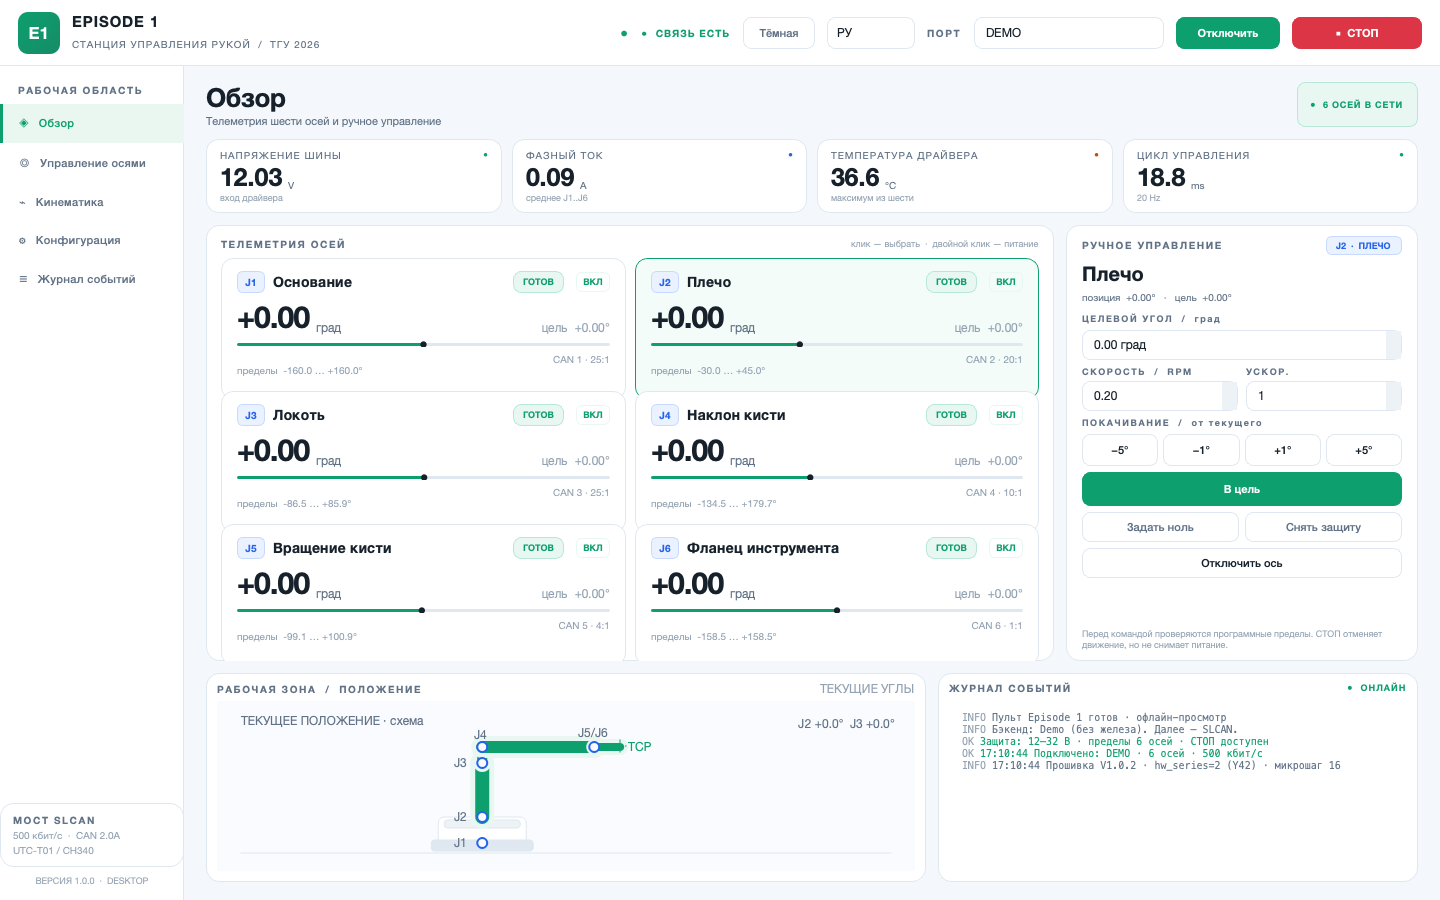
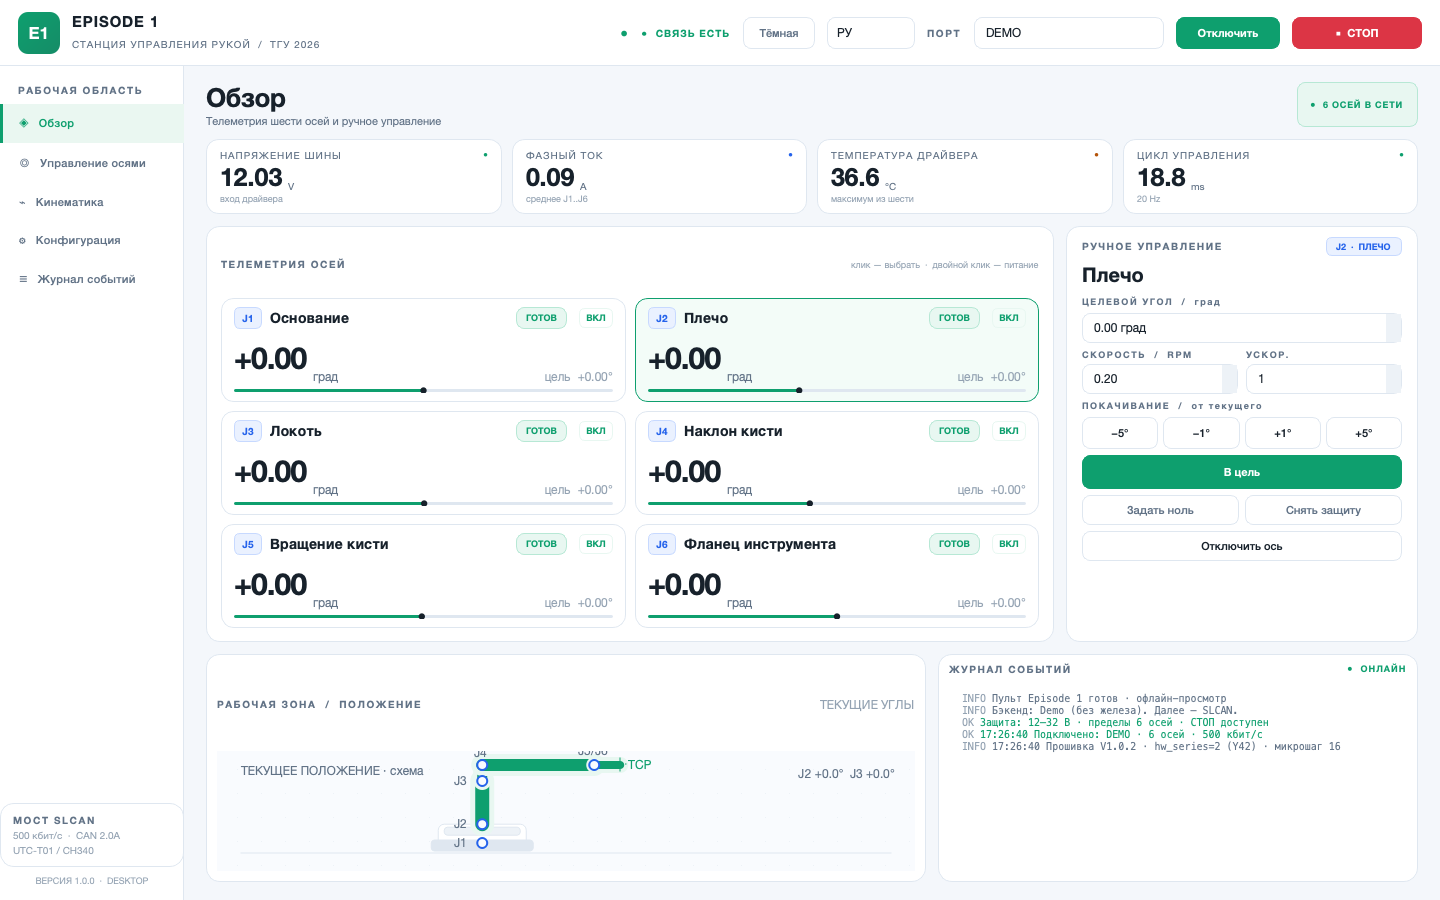
Responsive compact layout and offline placeholders

diff --git a/app/episode1_app/window.py b/app/episode1_app/window.py
@@ -21,6 +21,7 @@ from PySide6.QtWidgets import (
     QMainWindow,
     QMessageBox,
     QPushButton,
+    QScrollArea,
     QSpinBox,
     QVBoxLayout,
     QWidget,
@@ -109,6 +110,7 @@ class MainWindow(QMainWindow):
             old.deleteLater()
         self.cards.clear()
         self._nav_buttons.clear()
+        self._compact = False
         self._nav_keys.clear()
 
         self.setWindowTitle(tr("app.title"))
@@ -126,6 +128,8 @@ class MainWindow(QMainWindow):
         body.addWidget(self._build_sidebar())
 
         content = QWidget()
+        content.setObjectName("Content")
+        content.setMinimumSize(980, 720)
         content_lay = QVBoxLayout(content)
         content_lay.setContentsMargins(22, 16, 22, 18)
         content_lay.setSpacing(12)
@@ -133,7 +137,13 @@ class MainWindow(QMainWindow):
         content_lay.addLayout(self._build_metrics())
         content_lay.addLayout(self._build_main_row(), 1)
         content_lay.addLayout(self._build_bottom_row())
-        body.addWidget(content, 1)
+        scroll = QScrollArea()
+        scroll.setObjectName("ContentScroll")
+        scroll.setWidgetResizable(True)
+        scroll.setFrameShape(QFrame.Shape.NoFrame)
+        scroll.setHorizontalScrollBarPolicy(Qt.ScrollBarPolicy.ScrollBarAsNeeded)
+        scroll.setWidget(content)
+        body.addWidget(scroll, 1)
         outer.addLayout(body, 1)
 
         self._on_connection(self.backend.connected)
@@ -141,6 +151,7 @@ class MainWindow(QMainWindow):
             self._on_snapshot(self.last_snapshot)
         if not self._log_entries:
             self._append_welcome()
+        self._set_compact(self.height() < 920)
 
     def _build_topbar(self) -> QWidget:
         bar = QFrame()
@@ -325,7 +336,7 @@ class MainWindow(QMainWindow):
         grid = QGridLayout()
         grid.setSpacing(9)
         for i in range(6):
-            card = JointCard()
+            card = JointCard(i + 1)
             card.clicked.connect(self._select_joint)
             card.powerToggled.connect(self._toggle_joint_power)
             self.cards[i + 1] = card
@@ -438,7 +449,8 @@ class MainWindow(QMainWindow):
         lay.addWidget(self.enable_btn)
 
         lay.addStretch(1)
-        note = QLabel(tr("note.safety"))
+        self.command_note = QLabel(tr("note.safety"))
+        note = self.command_note
         note.setWordWrap(True)
         note.setObjectName("Dim")
         note.setStyleSheet("font-size:8.5px;line-height:1.35;")
@@ -478,6 +490,29 @@ class MainWindow(QMainWindow):
         self.log.setFixedWidth(480)
         row.addWidget(self.log)
         return row
+
+    def _set_compact(self, compact: bool) -> None:
+        if compact == getattr(self, "_compact", False):
+            return
+        self._compact = compact
+        for card in self.cards.values():
+            card.set_compact(compact)
+        note = getattr(self, "command_note", None)
+        if note is not None:
+            note.setVisible(not compact)
+        readout = getattr(self, "sel_target_read", None)
+        if readout is not None:
+            readout.setVisible(not compact)
+        canvas = getattr(self, "canvas", None)
+        if canvas is not None:
+            canvas.setMinimumHeight(120 if compact else 150)
+        log = getattr(self, "log", None)
+        if log is not None:
+            log.setMinimumHeight(120 if compact else 150)
+
+    def resizeEvent(self, event) -> None:  # noqa: N802
+        super().resizeEvent(event)
+        self._set_compact(self.height() < 920)
 
     # ------------------------------------------------------------- theme
     def _toggle_theme(self) -> None:
@@ -594,8 +629,14 @@ class MainWindow(QMainWindow):
         self._update_command_sensitivity(connected)
         if not connected:
             self.last_snapshot = None
+            self.m_voltage.set_value("—", tr("metric.voltage.note"))
+            self.m_current.set_value("—", tr("metric.current.note"))
+            self.m_temp.set_value("—", tr("metric.temp.note"))
+            self.m_latency.set_value("—", tr("metric.loop.note"))
+            self.canvas.set_zero()
             for card in self.cards.values():
                 card.setEnabled(False)
+                card.set_offline()
                 card.setProperty("selected", False)
                 card.style().unpolish(card)
                 card.style().polish(card)
@@ -613,6 +654,8 @@ class MainWindow(QMainWindow):
             w.setEnabled(connected)
 
     def _on_snapshot(self, snap: Snapshot) -> None:
+        if not self.backend.connected:
+            return
         self.last_snapshot = snap
         for j in snap.joints:
             card = self.cards.get(j.index)

diff --git a/app/episode1_app/widgets.py b/app/episode1_app/widgets.py
@@ -19,7 +19,7 @@ from PySide6.QtWidgets import (
 )
 
 from .i18n import tr
-from .models import JointState, Snapshot, STATUS_HOLD, STATUS_MOVING, STATUS_PROTECTED, STATUS_READY
+from .models import JointState, Snapshot, STATUS_HOLD, STATUS_MOVING, STATUS_OFFLINE, STATUS_PROTECTED, STATUS_READY
 from .theme import C
 
 STATUS_KEYS = {
@@ -27,6 +27,7 @@ STATUS_KEYS = {
     STATUS_MOVING: "status.moving",
     STATUS_HOLD: "status.hold",
     STATUS_PROTECTED: "status.protected",
+    STATUS_OFFLINE: "status.offline",
 }
 
 
@@ -44,6 +45,8 @@ class StatusPill(QLabel):
             self.setObjectName("StatusError")
         elif status == STATUS_READY:
             self.setObjectName("StatusReady")
+        elif status == STATUS_OFFLINE:
+            self.setObjectName("StatusOffline")
         else:
             self.setObjectName("StatusWarn")
         self.style().unpolish(self)
@@ -83,32 +86,33 @@ class JointCard(QFrame):
     clicked = Signal(int)
     powerToggled = Signal(int, bool)
 
-    def __init__(self, parent: Optional[QWidget] = None) -> None:
+    def __init__(self, index: int = 1, parent: Optional[QWidget] = None) -> None:
         super().__init__(parent)
         self.setObjectName("Card")
         self.setProperty("selected", False)
         self.setCursor(Qt.CursorShape.PointingHandCursor)
-        self.setMinimumHeight(142)
+        self.setMinimumHeight(126)
         self.setSizePolicy(QSizePolicy.Policy.Expanding, QSizePolicy.Policy.Fixed)
-        self._index = 0
+        self._index = index
         self._enabled = False
 
         root = QVBoxLayout(self)
+        self._root = root
         root.setContentsMargins(15, 12, 15, 12)
         root.setSpacing(6)
 
         head = QHBoxLayout()
         head.setSpacing(8)
-        self.badge = QLabel("J1")
+        self.badge = QLabel(f"J{index}")
         self.badge.setFixedSize(28, 22)
         self.badge.setAlignment(Qt.AlignmentFlag.AlignCenter)
         self.badge.setStyleSheet(
             f"background:{C['blue_dim']};color:{C['blue']};border:1px solid {C['blue_border']};"
             "border-radius:6px;font-size:10px;font-weight:800;"
         )
-        self.name = QLabel("Base")
+        self.name = QLabel(tr(f"joint.{index}"))
         self.name.setObjectName("JointName")
-        self.status = StatusPill(STATUS_HOLD)
+        self.status = StatusPill(STATUS_OFFLINE)
         self.power = QLabel("OFF")
         self.power.setFixedSize(34, 20)
         self.power.setAlignment(Qt.AlignmentFlag.AlignCenter)
@@ -146,13 +150,29 @@ class JointCard(QFrame):
         foot = QHBoxLayout()
         self.limits = QLabel("limits  —")
         self.limits.setObjectName("JointSub")
-        self.can = QLabel("CAN 1 · 25:1")
+        self.can = QLabel(f"CAN {index}")
         self.can.setObjectName("JointSub")
         self.can.setAlignment(Qt.AlignmentFlag.AlignRight)
         foot.addWidget(self.limits)
         foot.addStretch(1)
         foot.addWidget(self.can)
         root.addLayout(foot)
+
+    def set_offline(self) -> None:
+        self.status.set_status(STATUS_OFFLINE)
+        self.power.setText("OFF")
+
+    def set_compact(self, compact: bool) -> None:
+        """Small-window mode: hide the footer and reduce the card height."""
+        self.limits.setVisible(not compact)
+        self.can.setVisible(not compact)
+        self._root.setContentsMargins(12, 8, 12, 8) if compact else self._root.setContentsMargins(15, 12, 15, 12)
+        self._root.setSpacing(3 if compact else 6)
+        if compact:
+            self.setFixedHeight(104)
+        else:
+            self.setMinimumHeight(126)
+            self.setMaximumHeight(16777215)
 
     def set_state(self, state: JointState, selected: bool = False) -> None:
         self._index = state.index
@@ -235,9 +255,14 @@ class ArmCanvas(QWidget):
 
     def __init__(self, parent: Optional[QWidget] = None) -> None:
         super().__init__(parent)
-        self.setMinimumHeight(170)
+        self.setMinimumHeight(150)
         self._angles = [0.0] * 6
         self._moving = False
+
+    def set_zero(self) -> None:
+        self._angles = [0.0] * 6
+        self._moving = False
+        self.update()
 
     def set_snapshot(self, snap: Snapshot) -> None:
         self._angles = [j.angle for j in snap.joints]

diff --git a/app/episode1_app/theme.py b/app/episode1_app/theme.py
@@ -85,6 +85,7 @@ QLabel#AngleUnit {{ color: {C['muted']}; font-size: 12px; }}
 QLabel#StatusReady {{ color: {C['green']}; background: {C['green_dim']}; border: 1px solid {C['green_border']}; border-radius: 8px; padding: 3px 9px; font-size: 9px; font-weight: 700; }}
 QLabel#StatusMove {{ color: {C['blue']}; background: {C['blue_dim']}; border: 1px solid {C['blue_border']}; border-radius: 8px; padding: 3px 9px; font-size: 9px; font-weight: 700; }}
 QLabel#StatusWarn {{ color: {C['amber']}; background: {C['amber_dim']}; border: 1px solid {C['amber_border']}; border-radius: 8px; padding: 3px 9px; font-size: 9px; font-weight: 700; }}
+QLabel#StatusOffline {{ color: {C['muted']}; background: {C['line_soft']}; border: 1px solid {C['line']}; border-radius: 8px; padding: 3px 9px; font-size: 9px; font-weight: 700; }}
 QLabel#StatusError {{ color: {C['red']}; background: {C['red_dim']}; border: 1px solid {C['red_border']}; border-radius: 8px; padding: 3px 9px; font-size: 9px; font-weight: 700; }}
 QPushButton {{
     background: {C['panel']}; border: 1px solid {C['line']}; border-radius: 8px;

diff --git a/app/episode1_app/dialogs.py b/app/episode1_app/dialogs.py
@@ -55,7 +55,7 @@ class JointControlDialog(QDialog):
         grid = QGridLayout()
         grid.setSpacing(10)
         for i in range(6):
-            card = JointCard()
+            card = JointCard(i + 1)
             card.clicked.connect(self._select)
             card.powerToggled.connect(self._toggle)
             self.cards[i + 1] = card

diff --git a/README.md b/README.md
@@ -75,6 +75,7 @@ python armctl.py move-all --iface slcan --channel /dev/cu.usbmodem1101 \
 ![桌面上位机](app/docs/ui_preview_zh.png)
 
 - 源码与说明：[app/README.zh.md](app/README.zh.md)
+- 自适应布局：高度低于 920 px 自动紧凑模式，窗口最小 1180×760；内容过多时可滚动
 - 浅色 / 深色双主题：顶部“夜间 / 日间”一键切换，记住上次选择；默认浅色
 - 实时姿态图：零位与 CAD 一致，随 J1–J6 软件角度和 Move/Jog 指令变化
 - 侧边栏：关节控制（六轴大面板）、正逆运动学、配置（只读限位/减速比表）、事件日志（复制/导出）

diff --git a/app/README.zh.md b/app/README.zh.md
@@ -8,6 +8,7 @@
 ## 已实现
 
 - 三语切换：中文 / English / Русский，重启后记住上次语言
+- 自适应布局：高度低于 920 px 自动紧凑模式；最小窗口 1180×760，内容可滚动
 - 浅色 / 深色双主题：顶部“夜间 / 日间”切换，重启后记住上次主题；默认浅色
 - Demo 模式：无硬件也能看完整界面、动效和日志
 - 真实 SLCAN 后端：扫描 ID 1–6、状态轮询、使能/失能、点动、绝对角度、六轴同步、停止、清保护、设零点
